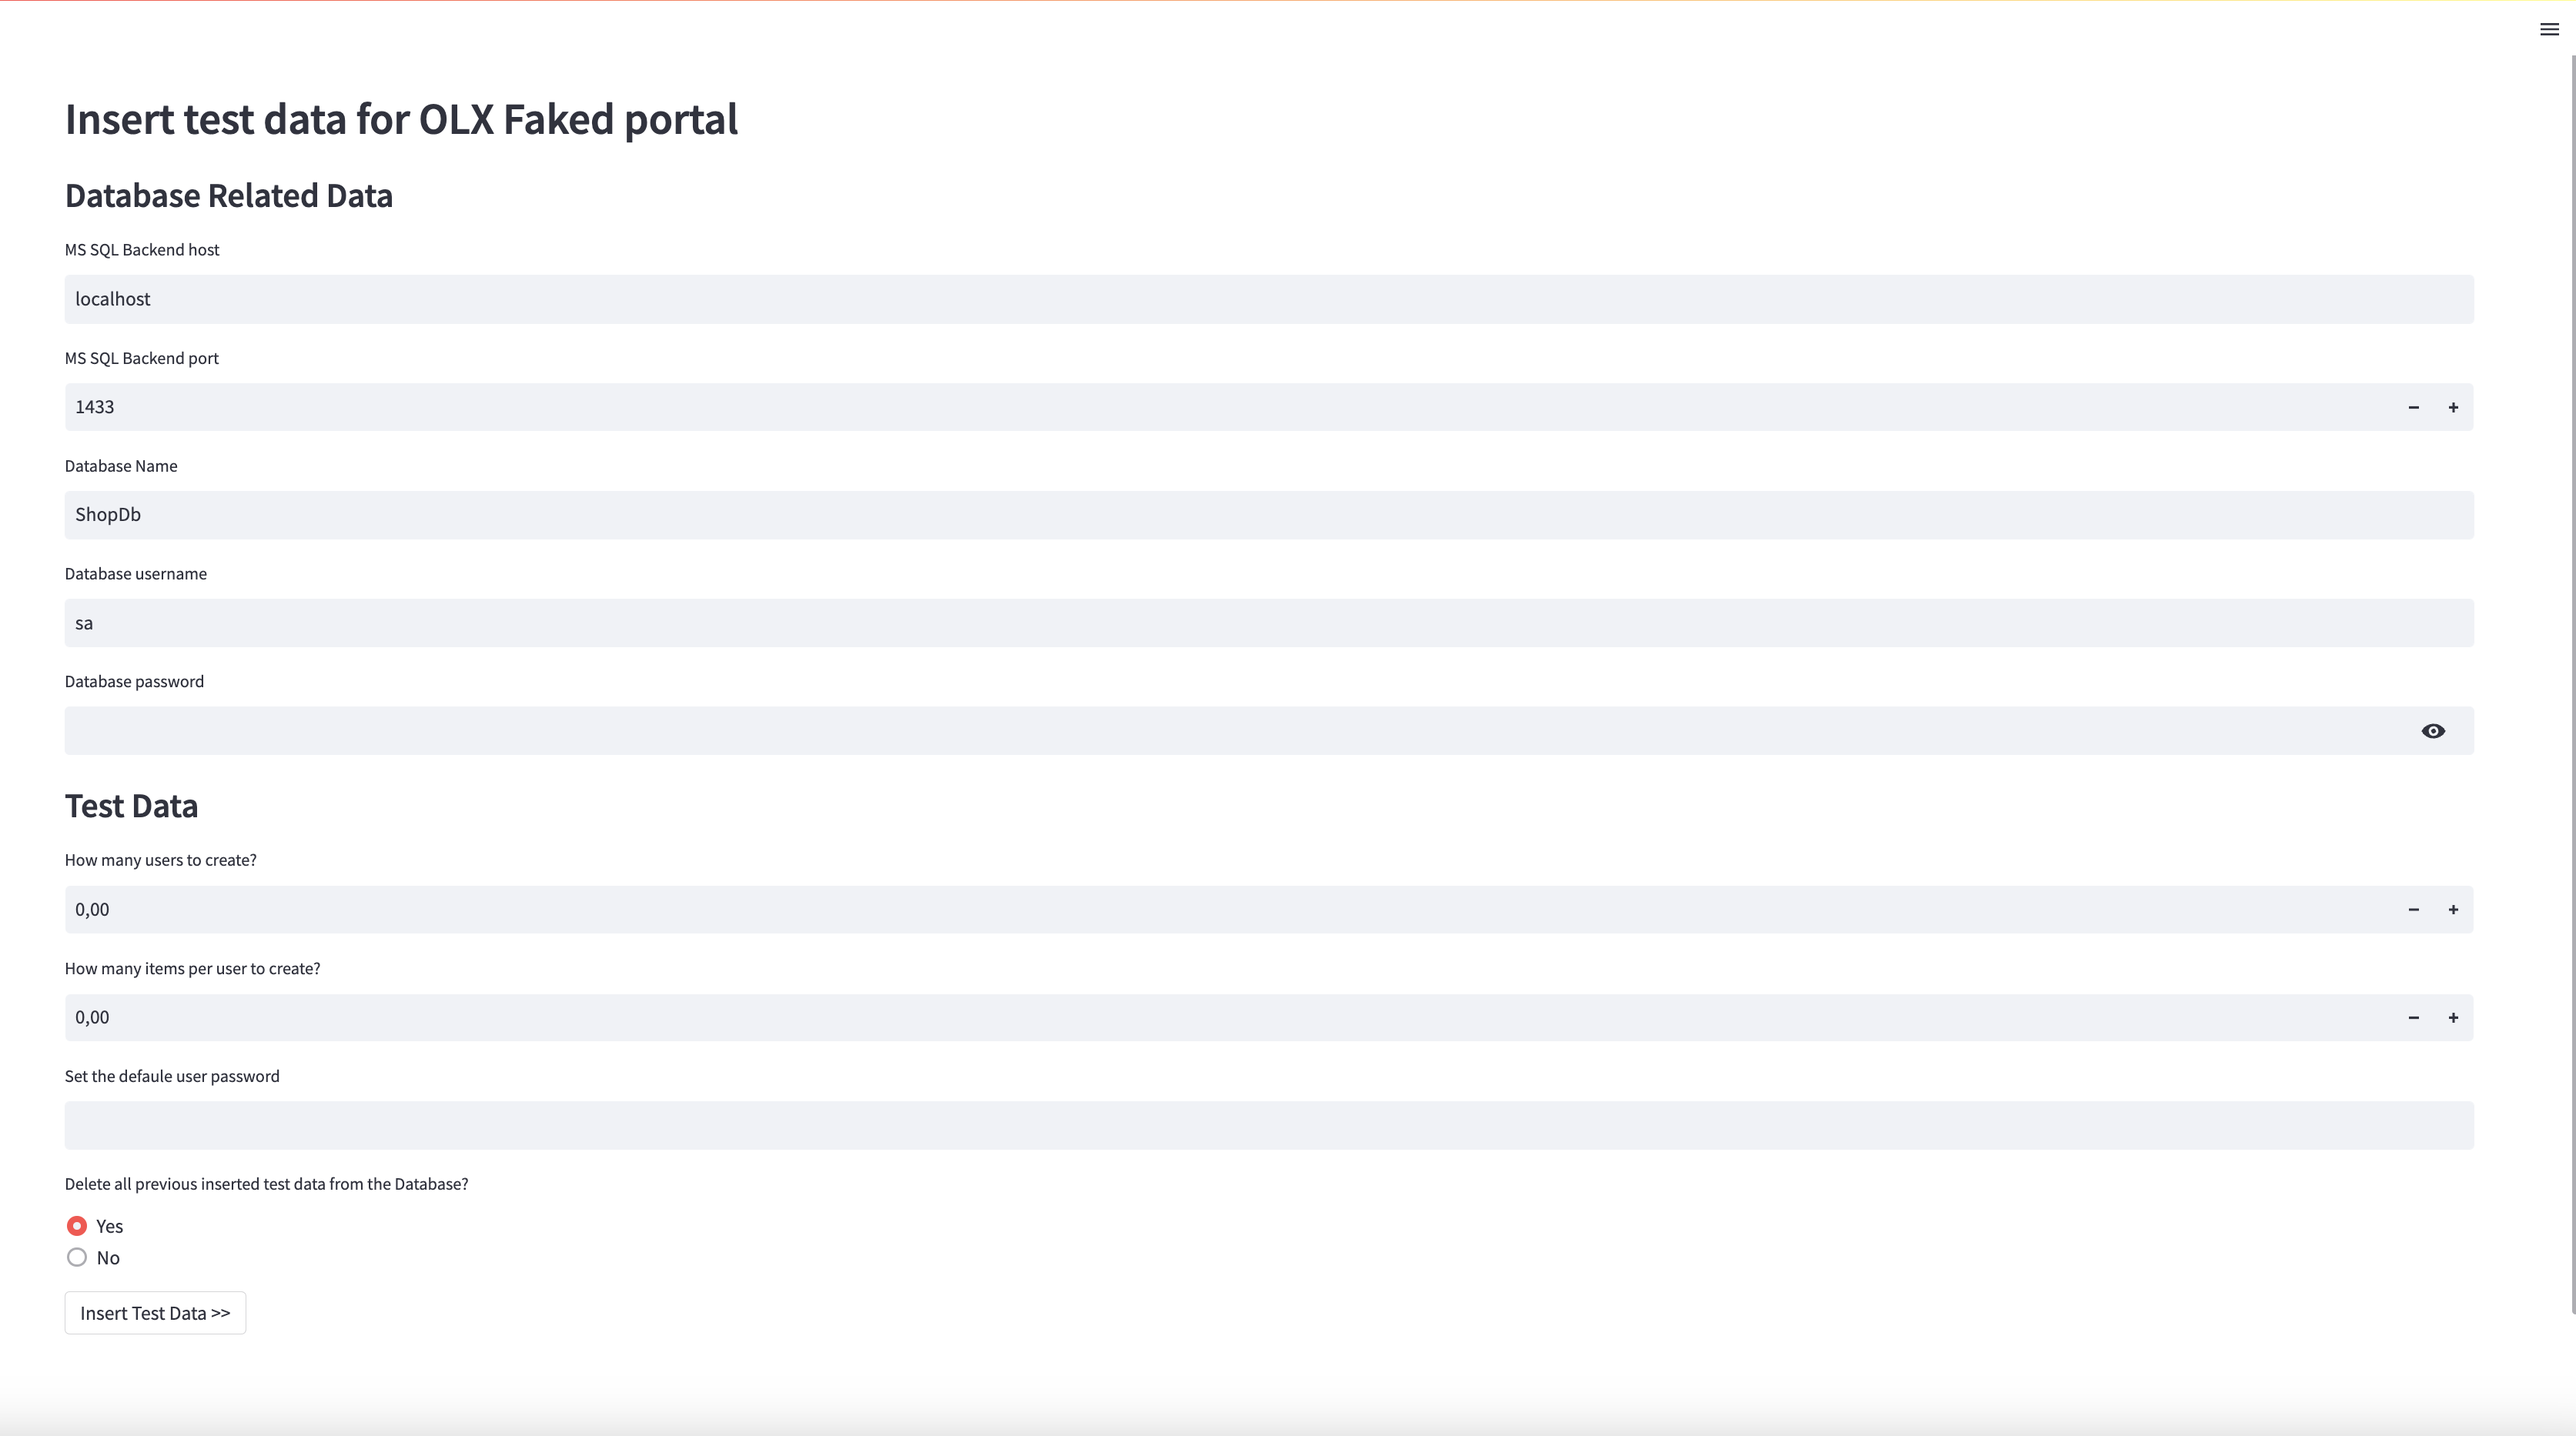
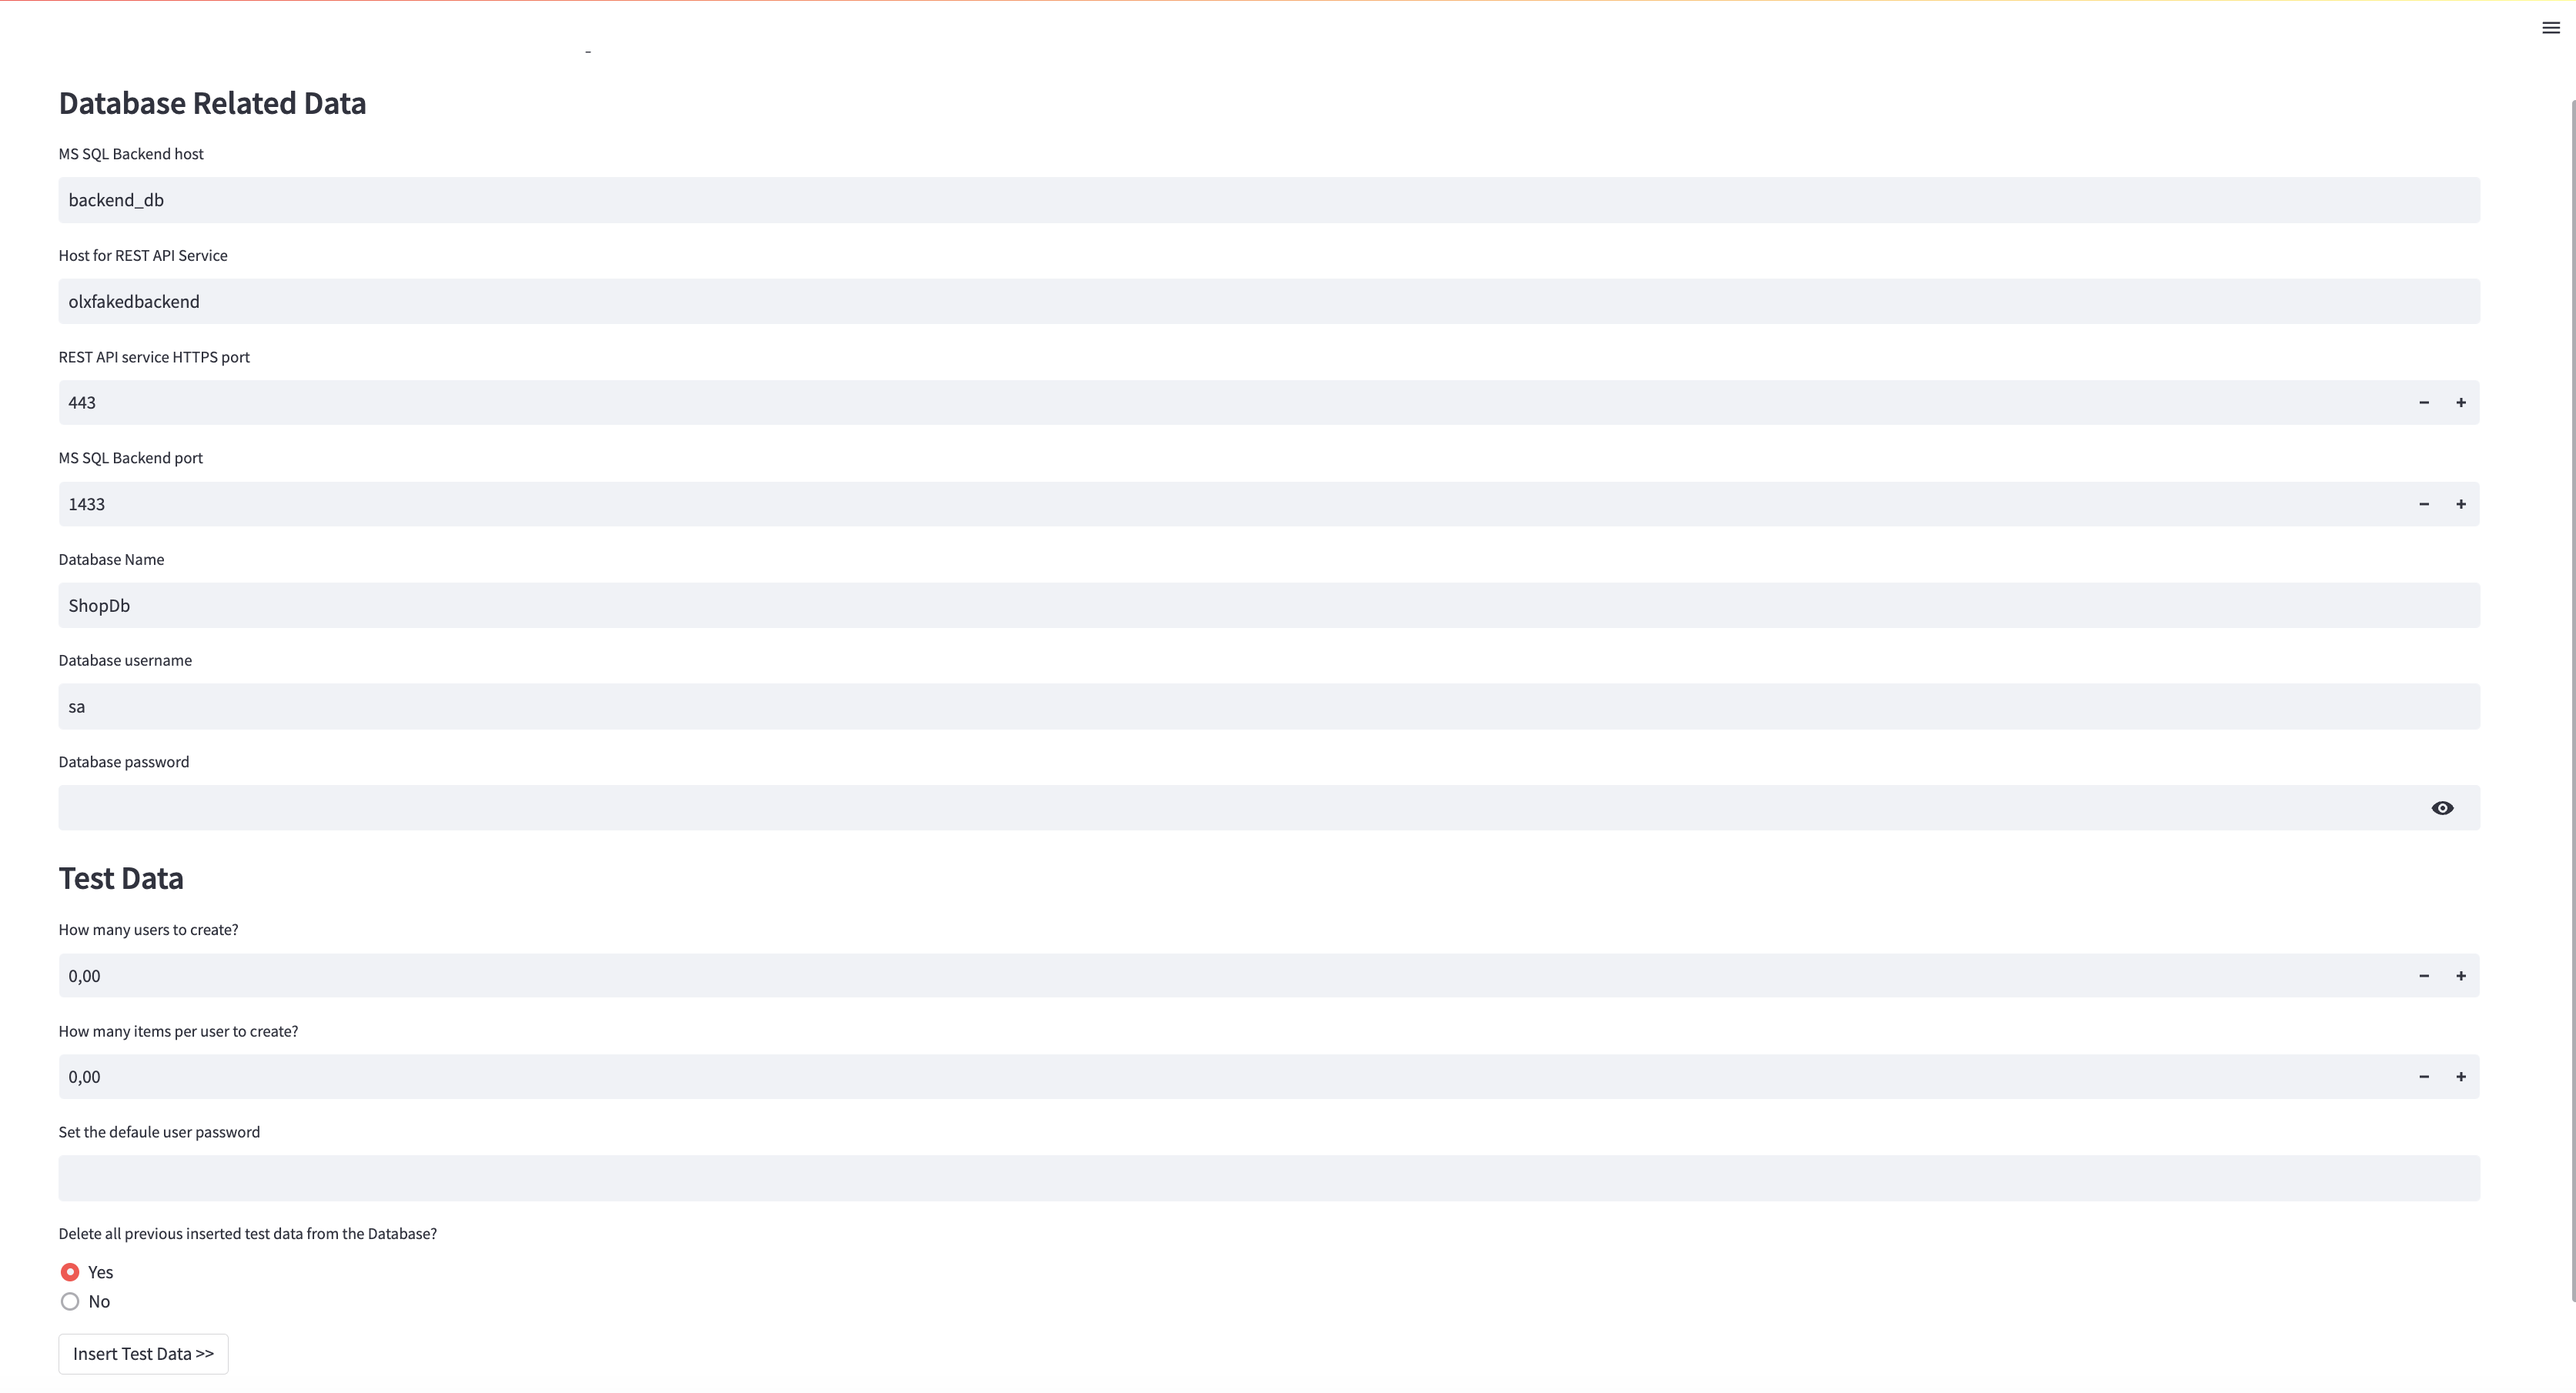
Update README.MD.

diff --git a/README.MD b/README.MD
@@ -1,50 +1,25 @@
 # Pre-requisites
-## Python installation
-Install *Python* from the [official page](https://www.python.org/downloads/). Make sure that during the installation *Python* is added to the *PATH* system variable. That *Windows* users will be asked during the installation process.
+To deploy the application we need next things to be installed:
+- [Docker Desktop](https://www.docker.com/products/docker-desktop/)
 
-## Virtual Environment installation
-Use *Virtual Environment* only if you use *Python* for the regular development. Miss the instructions related to it otherwise.
-In the *Terminal* (**Linux** or **MacOS X**) or *Powershell* (**Windoes OS**) type:
+# Installation
+## Build Docker Container
+Inside _Project Root_ folder run in the _Terminal_:
 
 ```shell
-pip install virtualenv
+docker compose build
 ```
 
-## Install the dependencies
-
-### Create Virtual Environment
-If you use *Virtual Environment*, activate it in the *Terminal* (**Linux** or **MacOS X**) or *Powershell* (**Windoes OS**):
+## Start Docker Container
+Inside _Project Root_ folder run in the _Terminal_:
 
 ```shell
-virtualenv my_virtual_environment
-```
-### Activate Virtual Environment
-
-**Linux or Mac OS X**
-```shell
-. my_virtual_environment/bin/activate
-```
-
-**Windows OS**
-```shell
-my_virtual_environment\Scripts\activate.PS2
-```
-
-### Install the dependencies
-Inside the project root type in the *Terminal*:
-```shell
-pip install -r requirements.txt
+docker compose up -d
 ```
 
 # Create the test data
-## Command execution
-To fill the *DB*, Database server must be running. How to activate is, see *README.MD* in [OLXFakedBackend](https://github.com/kozakHolota/OLXFakedBackend) project.
-
-Inside the *Project Root* folder execute command:
-
-```shell
-streamlit run ./main_ui.py
-```
+## Access the UI
+In _Web Browser_ navigate to the address: [http://localhost:8501](http://localhost:8501)
 
 ## Personalize Test Data Generation
 After command is started you should see in ghe browser _Web UI_ like this:
@@ -52,8 +27,10 @@ After command is started you should see in ghe browser _Web UI_ like this:
 ![Test Data Inserter Web UI](img/web_ui.png "Test Data Inserter Web UI")
 
 ### Fields meaning
-- *MS SQL Backend host* - Database host (in most cases *localhost*)
+- *MS SQL Backend host* - Database host
+- *Host for REST API Service* - *OLX Faked Backend* *REST API* host
 - *MS SQL Backend port* - *MS SQL Server* user name
+- *REST API service HTTPS port* - *OLX Faked Backend* *REST API* host port
 - *Database Name* - *MS SQL Server* user password
 - *Database username* - Database to use
 - *Database password* - How many users to create
